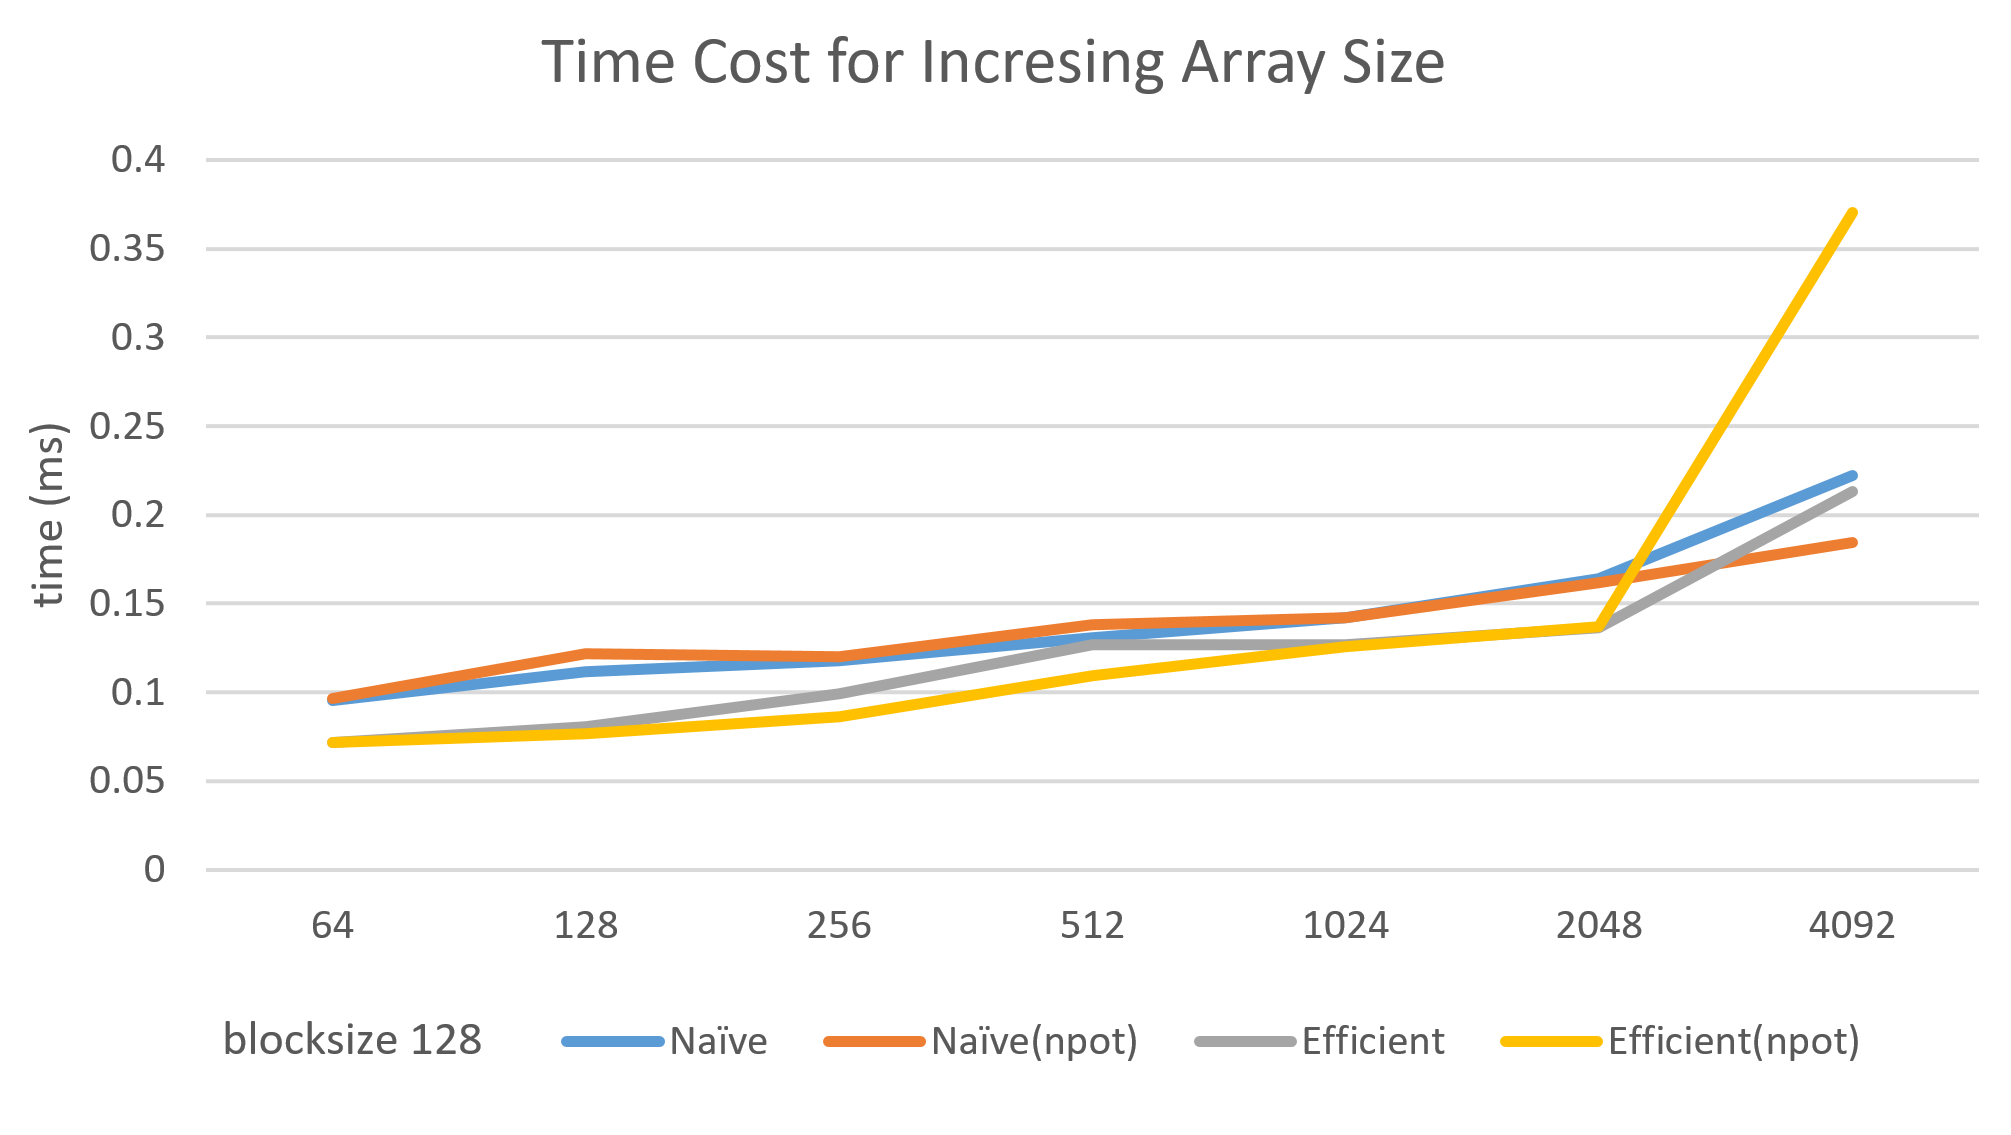
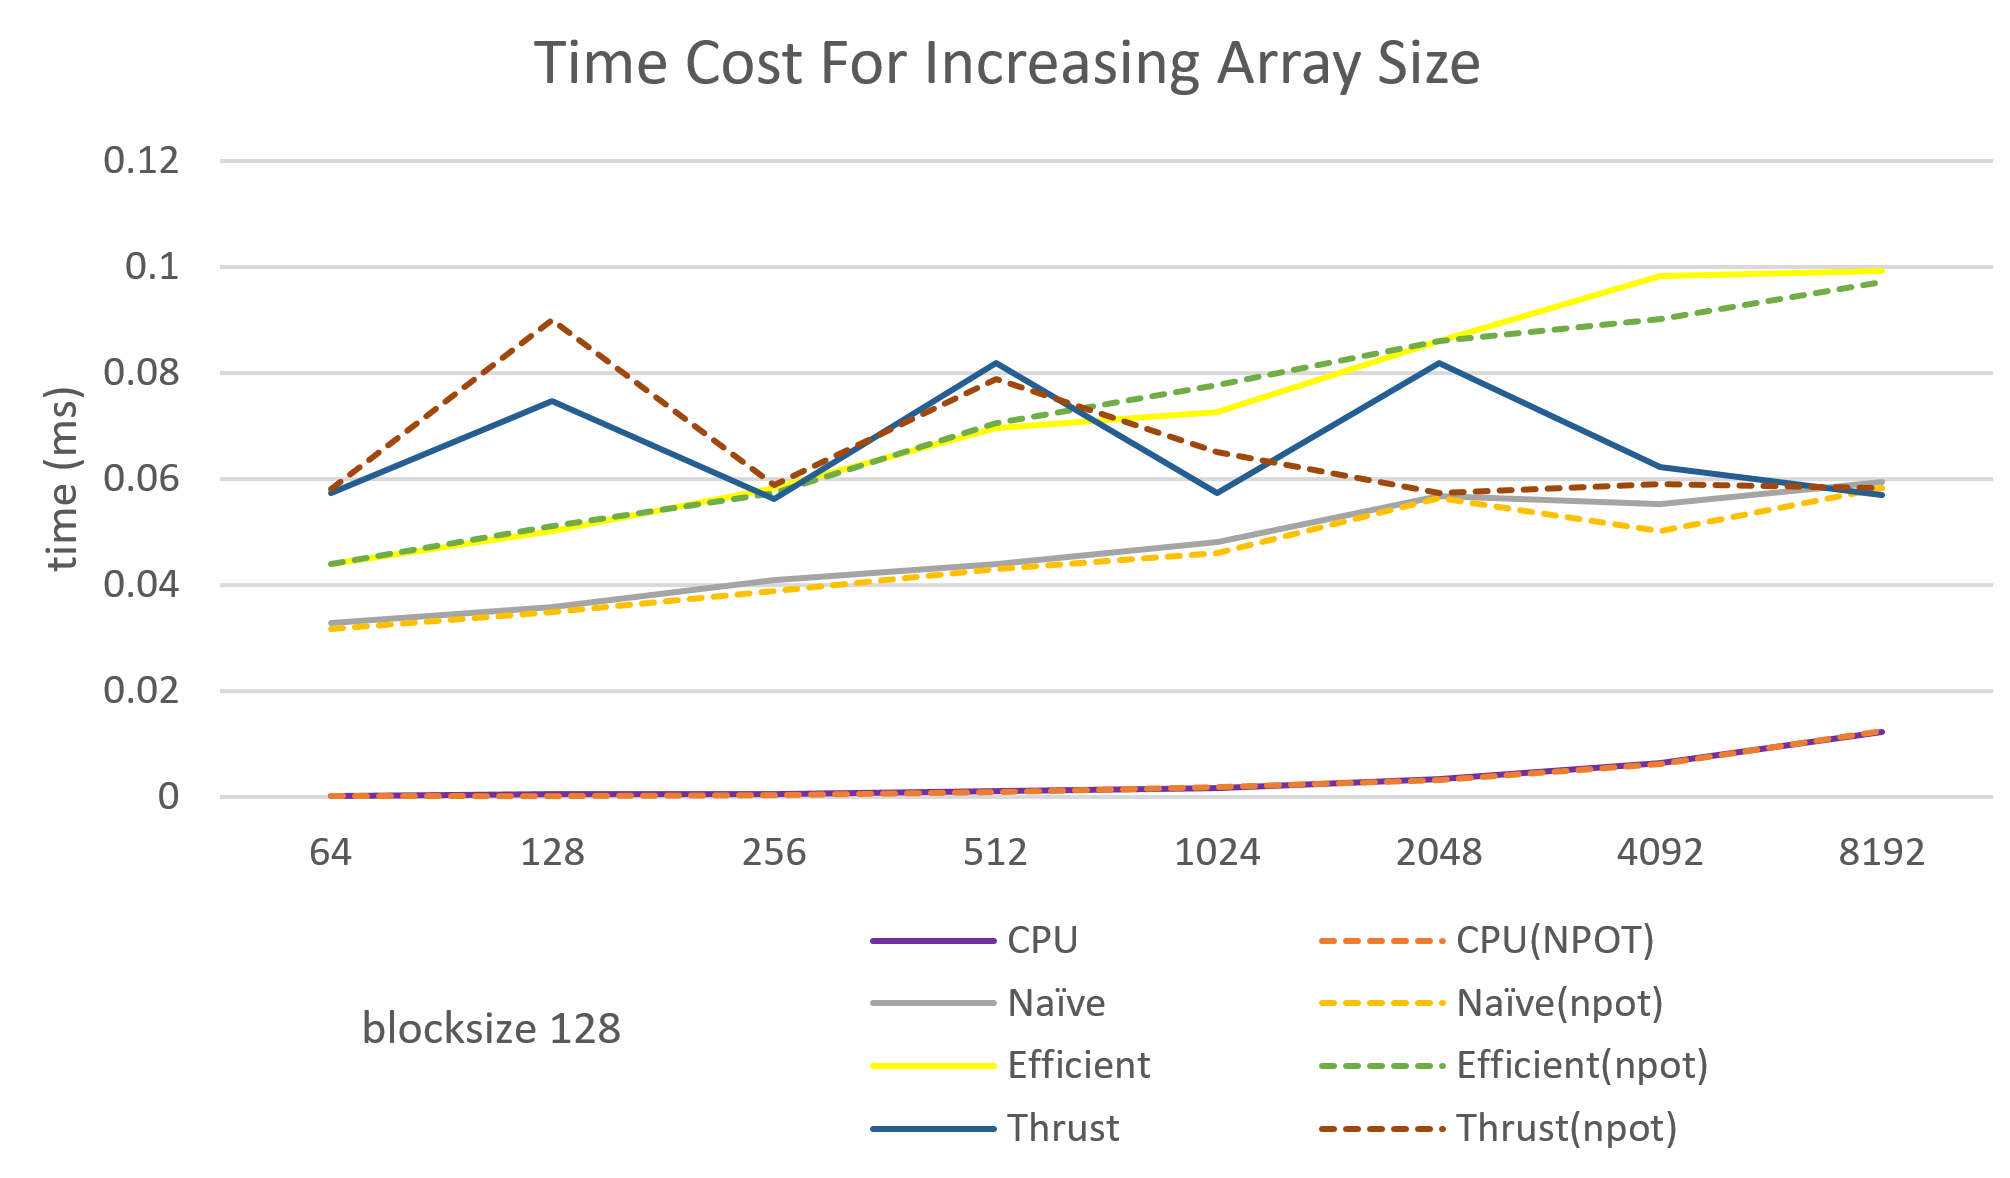
update readme

diff --git a/Project2-Stream-Compaction/README.md b/Project2-Stream-Compaction/README.md
@@ -11,7 +11,7 @@ CUDA Stream Compaction
 
 
 
-[Result](#features) - [Rules](#rules) - [Runtime Analysis](#analysis) - [Extra](#extra)
+[Result](#features) - [Runtime Analysis](#analysis) - [Extra](#extra)
 
 
 
@@ -97,27 +97,41 @@ SIZE: 128, NPOT:125
 
 
 
-## Rules
-
-Scan: sum the variable together
-
-Stream Compaction: reduce the operation count
-
 ## Analysis
 
 ![](img/blocksize.png)
 
-
+As we increase the block size, there is no obvious change in the time cost. So I think just change change the block size cannot improve the performance. Some other time consuming things a lot of time(such as read and write global memory).
 
 ![](img/arraysize.png)
 
+As we increase the array size, most of the line increase as well.  As for CPU, the 2 lines are so near, and pot and npot do not affect so clearly. And in the Graph, the CPU is the fastest method.
+
+For GPU,  first is the thrust. As you can see the thrust lines are most written lines. I have tried the same parameters for running several times, and find different thrust output. This really makes me confused. Anyway their time consuming are unstable.
+
+For Naive, the npot line is always lower than the pot one. Although it is not so obvious difference. I think this is because we deal with less number in the npot case. Finally, for the work efficient method. I the npot line sometimes higher than the pot one. I think this is cased by the operation and more memory access in dealing with npot to pot when we meet the npot array. 
+
+
+
+![](img/beforeandafter.png)
+
+Here is a graph I show the effect of making the extra1. After remove the lazy thread, we have a stable time saving result!
+
 ## Questions
+
+##### Guess at what might be happening inside the Thrust implementation 
+
+The thrust result always vibrate between numbers, but as in my testing, the speed of it is between Naive and Work Efficient method. I think maybe they allocate less memory and use shared memory to save same latency.
 
 ##### Can you find the performance bottlenecks? Is it memory I/O? Computation? Is it different for each implementation?
 
+I think is yes.
 
+For the CPU, I think the computation is the main bottlenecks, since you need to do a for loop. And that is the improvement for GPU.
 
+For GPU Naive Scan, in the slides, we know that although the numbers of add is o(nlog2(n)), the whole complexity is o(log2(n)), which is smaller than the o(n). But in my test... the CPU is always faster than the GPU. So I think is the problem of memory I/O.  And in this homework, I do not use the shared memory, so there will be some latency in interact with global memory. There can be other time consuming things, such as bank conflict and SM resource problem, happens, Work Efficient also suffer from these and take more memory operations than Naive, I think that's why it is time costing than Naive.
 
+As for thrust, I am not sure...maybe memory I/O?
 
 ## Extra
 
@@ -150,5 +164,18 @@ Here is a comparison for before and after changing:
 ##### Radix sort
 
 just follow the slides from the course.
+
+How to call:
+
+```
+genArray(Sort_Size, ra, 64);
+zeroArray(Sort_Size, raout);
+StreamCompaction::Radix::radix_sort(Sort_Size, 6, raout, ra);
+printDesc("radix sort");
+printArray(Sort_Size, ra, true);
+printArray(Sort_Size, raout, true);
+```
+
+Result:
 
 ![](img/radix.png)
